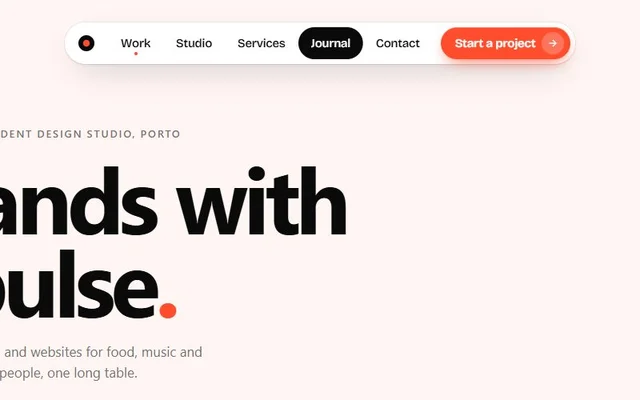
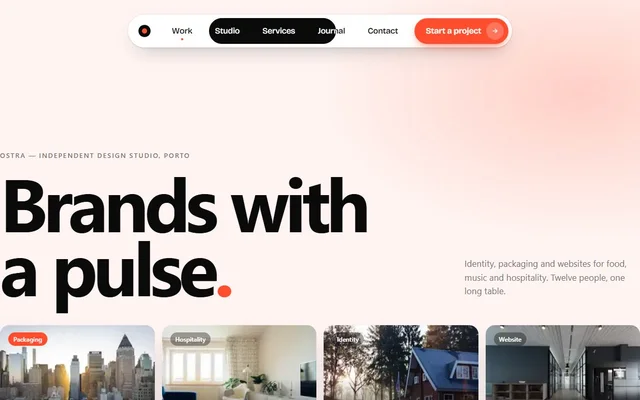
nav batch review fixes: fuller demos, larger ink nav, dock fits phones
- ink-pill-navbar: 50 px items, 16 px labels; demo is a full-height page with
  a work grid; files back to LF line endings.
- utility-dock-panel: bigger tabs, panel width capped to the viewport so it
  fits at 375 px; demo opens on Inbox at 392 px over a vignette with grain.
- shape-shift-tabs: bigger tabs and a 560 px panel; demo on a tinted vignette
  with grain.

diff --git a/components/ink-pill-navbar/demo.tsx b/components/ink-pill-navbar/demo.tsx
@@ -2,40 +2,79 @@
 
 import InkPillNavbar from "@/components/ui/ink-pill-navbar"
 
+// Work tiles: free Unsplash photos, inlined as WebP so the demo fetches nothing
+// off-origin: unsplash.com/photos/1480714378408-67cf0d13bc1b, 1493809842364-78817add7ffb,
+// 1449844908441-8829872d2607, 1497366216548-37526070297c.
+const WORK = [
[4 lines of base64/hex data omitted]
+]
+
+const ACCENT = "#ff4d2e"
+
 export default function Demo() {
   return (
     <div
       style={{
         position: "relative",
-        minHeight: "max(560px, 100svh)",
-        padding: "28px 16px 64px",
+        minHeight: "100svh",
+        display: "flex",
+        flexDirection: "column",
+        padding: "28px clamp(16px,4vw,48px) clamp(24px,5vh,48px)",
         overflow: "hidden",
-        background: "color-mix(in oklab, var(--color-background) 94%, #ff4d2e)",
+        isolation: "isolate",
+        background: "color-mix(in oklab, var(--color-background) 93%, " + ACCENT + ")",
         color: "var(--color-foreground)",
       }}
     >
+      <div
+        aria-hidden="true"
+        style={{
+          position: "absolute",
+          inset: 0,
+          zIndex: -1,
+          background:
+            "radial-gradient(50% 45% at 85% 20%, color-mix(in oklab, " + ACCENT + " 22%, transparent), transparent 70%), radial-gradient(45% 40% at 5% 95%, color-mix(in oklab, var(--color-foreground) 8%, transparent), transparent 70%)",
+        }}
+      />
       <InkPillNavbar
         brand={
-          <svg width="22" height="22" viewBox="0 0 22 22" aria-label="Ostra">
+          <svg width="26" height="26" viewBox="0 0 22 22" aria-label="Ostra">
             <circle cx="11" cy="11" r="10" fill="currentColor" />
-            <circle cx="11" cy="11" r="4.2" fill="#ff4d2e" />
+            <circle cx="11" cy="11" r="4.2" fill={ACCENT} />
           </svg>
         }
         items={[{ label: "Work" }, { label: "Studio" }, { label: "Services" }, { label: "Journal" }, { label: "Contact" }]}
         current={0}
         cta={{ label: "Start a project" }}
       />
-      <div style={{ maxWidth: 1100, margin: "clamp(56px,12vh,120px) auto 0", padding: "0 8px" }}>
-        <div style={{ fontSize: 13, fontWeight: 600, letterSpacing: ".14em", textTransform: "uppercase", color: "var(--color-muted-foreground)" }}>
-          Ostra — independent design studio, Porto
+
+      <div style={{ flex: 1, display: "flex", flexWrap: "wrap", alignItems: "flex-end", justifyContent: "space-between", gap: 28, width: "100%", maxWidth: 1240, margin: "clamp(48px,9vh,110px) auto 0" }}>
+        <div>
+          <div style={{ fontSize: 13, fontWeight: 600, letterSpacing: ".14em", textTransform: "uppercase", color: "var(--color-muted-foreground)" }}>
+            Ostra — independent design studio, Porto
+          </div>
+          <h1 style={{ margin: "18px 0 0", fontSize: "clamp(56px,10vw,168px)", fontWeight: 700, lineHeight: 0.86, letterSpacing: "-0.06em" }}>
+            Brands with
+            <br />a pulse<span style={{ color: ACCENT }}>.</span>
+          </h1>
         </div>
-        <h1 style={{ margin: "18px 0 0", fontSize: "clamp(48px,9vw,140px)", fontWeight: 700, lineHeight: 0.9, letterSpacing: "-0.055em" }}>
-          Brands with
-          <br />a pulse<span style={{ color: "#ff4d2e" }}>.</span>
-        </h1>
-        <p style={{ maxWidth: 440, marginTop: 24, fontSize: 17, lineHeight: 1.55, color: "var(--color-muted-foreground)" }}>
+        <p style={{ maxWidth: 340, margin: 0, fontSize: 17, lineHeight: 1.55, color: "var(--color-muted-foreground)" }}>
           Identity, packaging and websites for food, music and hospitality. Twelve people, one long table.
         </p>
+      </div>
+
+      <div style={{ display: "grid", gridTemplateColumns: "repeat(auto-fit, minmax(220px, 1fr))", gap: 14, width: "100%", maxWidth: 1240, margin: "clamp(32px,6vh,64px) auto 0" }}>
+        {WORK.map((w, i) => (
+          <a key={w.title} href="#" style={{ position: "relative", display: "block", aspectRatio: "4 / 3", borderRadius: 18, overflow: "hidden", color: "#fff", textDecoration: "none", boxShadow: "0 18px 40px -24px rgba(0,0,0,.5)" }}>
+            <img src={w.image} alt="" style={{ position: "absolute", inset: 0, width: "100%", height: "100%", maxWidth: "none", objectFit: "cover" }} />
+            <span style={{ position: "absolute", inset: 0, background: "linear-gradient(180deg, rgba(0,0,0,0) 45%, rgba(0,0,0,.6))" }} />
+            <span style={{ position: "absolute", left: 16, top: 14, fontSize: 12, fontWeight: 600, padding: "4px 10px", borderRadius: 999, background: i === 0 ? ACCENT : "rgba(0,0,0,.35)" }}>{w.tag}</span>
+            <span style={{ position: "absolute", left: 16, bottom: 14, fontSize: 18, fontWeight: 650, letterSpacing: "-0.02em" }}>{w.title}</span>
+          </a>
+        ))}
       </div>
     </div>
   )

diff --git a/components/ink-pill-navbar/ink-pill-navbar.tsx b/components/ink-pill-navbar/ink-pill-navbar.tsx
@@ -59,30 +59,30 @@ const FONT =
 const CSS =
   FONT +
   ".ipn-root{display:flex;justify-content:center;width:100%;font-family:ipn-sans,ui-sans-serif,system-ui,sans-serif;container-type:inline-size}" +
-  ".ipn-bar{display:flex;align-items:center;gap:6px;padding:6px;border-radius:999px;background:var(--color-background);color:var(--color-foreground);box-shadow:0 0 0 1px color-mix(in oklab,var(--color-foreground) 8%,transparent),inset 0 1px 0 color-mix(in oklab,var(--color-background) 60%,white),0 2px 4px -2px rgba(0,0,0,.12),0 16px 40px -18px rgba(0,0,0,.35);animation:ipn-in .9s cubic-bezier(.22,1,.36,1) both}" +
+  ".ipn-bar{display:flex;align-items:center;gap:6px;padding:7px;border-radius:999px;background:var(--color-background);color:var(--color-foreground);box-shadow:0 0 0 1px color-mix(in oklab,var(--color-foreground) 8%,transparent),inset 0 1px 0 color-mix(in oklab,var(--color-background) 60%,white),0 2px 4px -2px rgba(0,0,0,.12),0 16px 40px -18px rgba(0,0,0,.35);animation:ipn-in .9s cubic-bezier(.22,1,.36,1) both}" +
   "@keyframes ipn-in{from{opacity:0;transform:translateY(-12px) scale(.96)}to{opacity:1;transform:none}}" +
-  ".ipn-brand{display:grid;place-items:center;flex:none;height:40px;min-width:40px;padding:0 10px;border-radius:999px;font-weight:700;font-size:15px;letter-spacing:-.02em}" +
+  ".ipn-brand{display:grid;place-items:center;flex:none;height:50px;min-width:50px;padding:0 10px;border-radius:999px;font-weight:700;font-size:15px;letter-spacing:-.02em}" +
   ".ipn-row{position:relative}" +
   ".ipn-list{display:flex;margin:0;padding:0;list-style:none}" +
   ".ipn-ink{position:absolute;inset:0;pointer-events:none;background:var(--color-foreground);color:var(--color-background);clip-path:inset(0px 50% 0px 50% round 999px);will-change:clip-path}" +
   ".ipn-ink .ipn-link{color:inherit}" +
-  ".ipn-link{position:relative;display:flex;align-items:center;height:40px;padding:0 16px;border-radius:999px;color:inherit;font-size:15px;font-weight:500;letter-spacing:-.01em;text-decoration:none;white-space:nowrap;outline:none}" +
+  ".ipn-link{position:relative;display:flex;align-items:center;height:50px;padding:0 22px;border-radius:999px;color:inherit;font-size:16px;font-weight:500;letter-spacing:-.01em;text-decoration:none;white-space:nowrap;outline:none}" +
   ".ipn-link:focus-visible{box-shadow:inset 0 0 0 2px var(--ipn-accent)}" +
   ".ipn-word{display:flex;overflow:hidden;height:1.2em;line-height:1.2em}" +
   ".ipn-ch{display:block;transition:transform .55s cubic-bezier(.65,0,.2,1) calc(var(--c) * 16ms)}" +
   ".ipn-ch>span{display:block}" +
   ".ipn-list>[data-hot]>.ipn-link .ipn-ch{transform:translateY(-100%)}" +
-  ".ipn-dot{position:absolute;left:50%;bottom:5px;width:4px;height:4px;margin-left:-2px;border-radius:999px;background:var(--ipn-accent)}" +
-  ".ipn-cta{position:relative;display:flex;align-items:center;gap:8px;flex:none;height:40px;padding:0 8px 0 18px;margin-left:4px;border-radius:999px;background:var(--ipn-accent);color:#fff;font-size:15px;font-weight:600;letter-spacing:-.01em;text-decoration:none;overflow:hidden;isolation:isolate;box-shadow:inset 0 1px 0 rgba(255,255,255,.28),0 8px 18px -8px var(--ipn-accent);transition:transform .3s cubic-bezier(.22,1,.36,1)}" +
+  ".ipn-dot{position:absolute;left:50%;bottom:7px;width:4px;height:4px;margin-left:-2px;border-radius:999px;background:var(--ipn-accent)}" +
+  ".ipn-cta{position:relative;display:flex;align-items:center;gap:10px;flex:none;height:50px;padding:0 9px 0 22px;margin-left:4px;border-radius:999px;background:var(--ipn-accent);color:#fff;font-size:16px;font-weight:600;letter-spacing:-.01em;text-decoration:none;overflow:hidden;isolation:isolate;box-shadow:inset 0 1px 0 rgba(255,255,255,.28),0 8px 18px -8px var(--ipn-accent);transition:transform .3s cubic-bezier(.22,1,.36,1)}" +
   ".ipn-cta::before{content:'';position:absolute;inset:0;z-index:-1;background:var(--color-foreground);border-radius:inherit;transform:translateY(135%) rotate(-6deg) scale(1.25);transition:transform .55s cubic-bezier(.65,0,.2,1)}" +
   ".ipn-cta:hover::before,.ipn-cta:focus-visible::before{transform:none}" +
   ".ipn-cta:hover{color:var(--color-background)}" +
   ".ipn-cta:active{transform:scale(.96)}" +
   ".ipn-cta:focus-visible{outline:2px solid var(--ipn-accent);outline-offset:2px}" +
-  ".ipn-arrow{display:grid;place-items:center;width:28px;height:28px;border-radius:999px;background:rgba(255,255,255,.22);transition:transform .55s cubic-bezier(.65,0,.2,1),background .4s}" +
+  ".ipn-arrow{display:grid;place-items:center;width:34px;height:34px;border-radius:999px;background:rgba(255,255,255,.22);transition:transform .55s cubic-bezier(.65,0,.2,1),background .4s}" +
   ".ipn-cta:hover .ipn-arrow{transform:rotate(-45deg);background:var(--ipn-accent);color:#fff}" +
   ".ipn-cta svg{width:14px;height:14px}" +
-  "@container (max-width:620px){.ipn-cta{display:none}.ipn-link{padding:0 11px;font-size:14px}.ipn-brand{padding:0 6px}}" +
+  "@container (max-width:720px){.ipn-cta{display:none}.ipn-link{height:44px;padding:0 12px;font-size:14px}.ipn-brand{height:44px;min-width:44px;padding:0 6px}}" +
   "@container (max-width:380px){.ipn-link{padding:0 8px;font-size:13px}}" +
   "@media (prefers-reduced-motion:reduce){.ipn-bar{animation:none}.ipn-ch,.ipn-cta::before,.ipn-arrow{transition-duration:.01ms!important;transition-delay:0s!important}}"
 

diff --git a/components/ink-pill-navbar/README.md b/components/ink-pill-navbar/README.md
@@ -19,7 +19,7 @@ import InkPillNavbar from "@/components/ui/ink-pill-navbar"
 |---|---|---|
 | `items` | required | `{ label, href? }[]`. |
 | `brand` | none | Logo on the left (node). |
-| `cta` | none | `{ label, href? }`, the accent button on the right. It hides below 620 px of container width. |
+| `cta` | none | `{ label, href? }`, the accent button on the right. It hides below 720 px of container width. |
 | `current` | `-1` | Index of the current page. It gets an accent dot and `aria-current="page"`. |
 | `accent` | `#ff4d2e` | The button, the dot and focus rings. |
 | `onNavigate` | none | `(item, index)`. |
